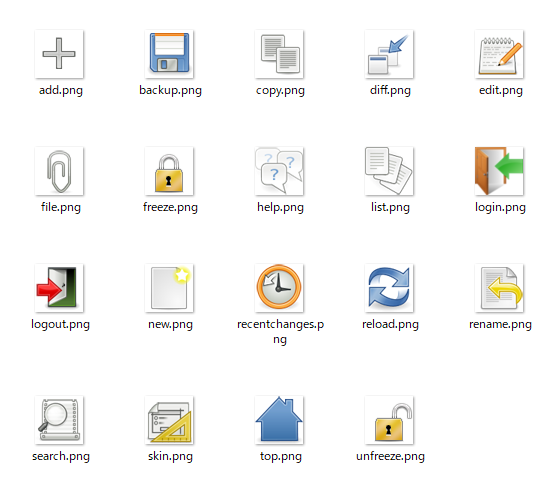
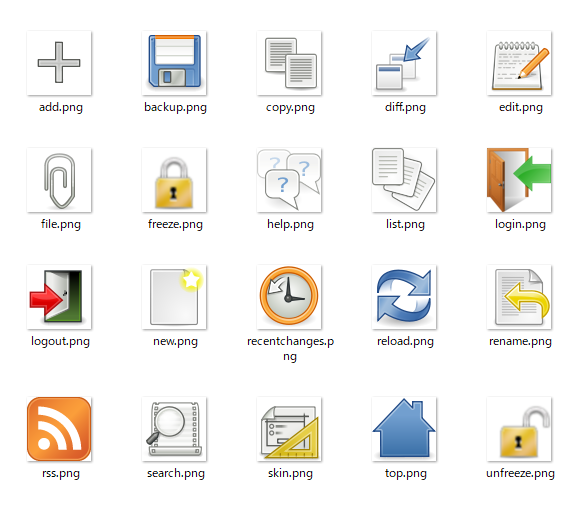
アイコン1種類を追加＆64ドットアイコンリリース・コミット

diff --git a/README.md b/README.md
@@ -2,9 +2,9 @@
 
 アイコン素材：PukiWiki操作アイコン
 
-- 32/48ドット・19種類の[PukiWiki](https://ja.wikipedia.org/wiki/PukiWiki)操作（編集・凍結・差分・バックアップ・添付・リロード等）アイコン素材です
+- 32/48/64ドット・20種類の[PukiWiki](https://ja.wikipedia.org/wiki/PukiWiki)操作（編集・凍結・差分・バックアップ・添付・リロード等）アイコン素材です
 - [PukiWiki](https://ja.wikipedia.org/wiki/PukiWiki)の標準アーカイブに含まれていない、ログインとログアウトアイコン（[PukiWiki](https://ja.wikipedia.org/wiki/PukiWiki)標準の20ドットアイコン）を含んでおり、全ての操作を本アイコン素材で置き換え可能です
 - 本アーカイブ内容を[PukiWiki](https://ja.wikipedia.org/wiki/PukiWiki)のドキュメントルートにある「image」フォルダに保存してお使いになれます（フォルダパーミッション「755」／ファイルパーミッション「644」に設定）
-- 32ドット（「op-icon32」フォルダ）または48ドット（「op-icon48」フォルダ）アイコンは、[PukiWiki](https://ja.wikipedia.org/wiki/PukiWiki)標準アイコンのデザインではなく、オリジナルデザインのアイコンになります
+- 32ドット（「op-icon32」フォルダ）／48ドット（「op-icon48」フォルダ）／64ドット（「op-icon64」フォルダ）の各アイコンは、[PukiWiki](https://ja.wikipedia.org/wiki/PukiWiki)標準アイコンのデザインではなく、オリジナルデザインのアイコンになります（RSSアイコンに関しては、RSSアイコン標準化プロジェクト「[Feed Icons](http://feedicons.com/)」のアイコンを収録しています）
 - 使用サンプルは、[PukiWiki SEの良心バージョン（仮称）](https://pukiwiki.dajya-ranger.com)サイトを参照して下さい（ページ最下部に[PukiWiki](https://ja.wikipedia.org/wiki/PukiWiki)標準アイコンの代わりに32ドットアイコンを配置しています）
 - [PukiWiki](https://ja.wikipedia.org/wiki/PukiWiki)以外に、他のWikiシステムにも応用が可能であるため、アイコン素材として公開します
